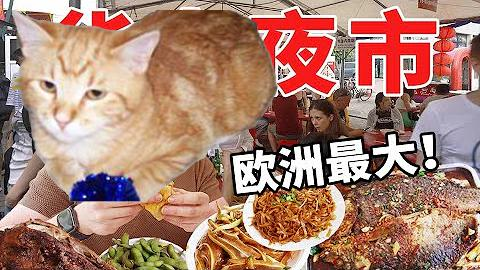
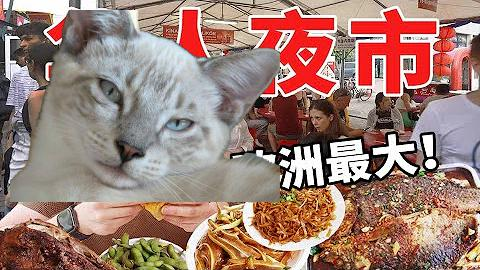
finish static rolling update

diff --git a/meow_backend/photo_merger.py b/meow_backend/photo_merger.py
@@ -68,6 +68,8 @@ def overlayFlow(img, img_overlay_rgba):
     # Save result
     # Image.fromarray(img_result).save("img_result3.jpg")
     global incremental
+    if(incremental > 200):
+        incremental = 0
     img_name = str(incremental) + ".jpg"
     incremental += 1
     savePath = "static/" + img_name
@@ -89,13 +91,16 @@ def downloadImgs(urls):
     script_dir = os.path.dirname(__file__)
     # url -->content --> wrap it for BytesIO --> open as Image and then convert
     for url in urls:
-        image = downloadImg(url)
-        cat_url = findRandomCat()
-        abs_file_path = os.path.join(script_dir, cat_url)
-        random_cat = np.array(Image.open(abs_file_path))
-        file_path = overlayFlow(image,random_cat)
-        file_paths.append(file_path)
+        if(url == None or len(url) == 0):
+            file_paths.append('')
+        else:
+            image = downloadImg(url)
+            cat_url = findRandomCat()
+            abs_file_path = os.path.join(script_dir, cat_url)
+            random_cat = np.array(Image.open(abs_file_path))
+            file_path = overlayFlow(image,random_cat)
+            file_paths.append(file_path)
     return file_paths
 
-if __name__ == '__main__':
-    downloadImgs(['https://i.ytimg.com/vi/L45Ua8weKqs/hqdefault.jpg?sqp=-oaymwEcCOADEI4CSFXyq4qpAw4IARUAAIhCGAFwAcABBg==&rs=AOn4CLC9XUQUbDSSoNC2SwmU10yn5tbCLQ'])
+# if __name__ == '__main__':
+#     downloadImgs(['https://i.ytimg.com/vi/L45Ua8weKqs/hqdefault.jpg?sqp=-oaymwEcCOADEI4CSFXyq4qpAw4IARUAAIhCGAFwAcABBg==&rs=AOn4CLC9XUQUbDSSoNC2SwmU10yn5tbCLQ'])

diff --git a/meow_backend/app.py b/meow_backend/app.py
@@ -45,23 +45,28 @@ def hello_world():
 
 @app.route("/echoJson", methods=['GET', 'POST'])
 def echoJson():
-    # data = request.json
+    ret = {}
+    data = request.json
     # jsonifiedContent = jsonify(data)
-    # app.logger.info('body content: ' + json.dumps(data))
-    # urls = data['urls']c
-    urls = ['https://i.ytimg.com/vi/L45Ua8weKqs/hqdefault.jpg?sqp=-oaymwEcCOADEI4CSFXyq4qpAw4IARUAAIhCGAFwAcABBg==&rs=AOn4CLC9XUQUbDSSoNC2SwmU10yn5tbCLQ']
+    app.logger.info('body content: ' + json.dumps(data))
+    urls = data['urls']
+
+    # urls = ['https://i.ytimg.com/vi/L45Ua8weKqs/hqdefault.jpg?sqp=-oaymwEcCOADEI4CSFXyq4qpAw4IARUAAIhCGAFwAcABBg==&rs=AOn4CLC9XUQUbDSSoNC2SwmU10yn5tbCLQ']
     img_paths = merger.downloadImgs(urls)
     for i in range(len(img_paths)):
         img_paths[i] = 'https://wenjunblog.xyz/' + img_paths[i]
+        ret[urls[i]] = img_paths[i]
+
     content = {}
-    content['urls'] = img_paths
+    # content['urls'] = img_paths
+    content['urls'] = ret
     jsonifiedContent = jsonify(content)
     return jsonifiedContent
 
 @app.route("/echo", methods=['GET', 'POST'])
 def echo():
-    app.logger.info('text is: ' + request.args.get('text', ''))
-    return "You said: " + request.args.get('text', '')
+    data = request.json
+    return data
 
 
 def random_image():

diff --git a/meow_backend/client.py b/meow_backend/client.py
@@ -11,8 +11,8 @@ def sentPost():
     print(r.json())
 
 def sentDownloadImgPost():
-    data = {'urls': ['https://i.ytimg.com/vi/L45Ua8weKqs/hqdefault.jpg?sqp=-oaymwEcCOADEI4CSFXyq4qpAw4IARUAAIhCGAFwAcABBg==&rs=AOn4CLC9XUQUbDSSoNC2SwmU10yn5tbCLQ']}
-    r = requests.post('http://8.222.181.202:9999/echoJson', json=data)
+    data = {'urls': ['https://i.ytimg.com/vi/L45Ua8weKqs/hqdefault.jpg?sqp=-oaymwEcCOADEI4CSFXyq4qpAw4IARUAAIhCGAFwAcABBg==&rs=AOn4CLC9XUQUbDSSoNC2SwmU10yn5tbCLQ','https://i.ytimg.com/vi/L45Ua8weKqs/hqdefault.jpg?sqp=-oaymwEcCOADEI4CSFXyq4qpAw4IARUAAIhCGAFwAcABBg==&rs=AOn4CLC9XUQUbDSSoNC2SwmU10yn5tbCLQ']}
+    r = requests.post('http://localhost:8000/echo', json=data)
     print(r.json())
 
 
